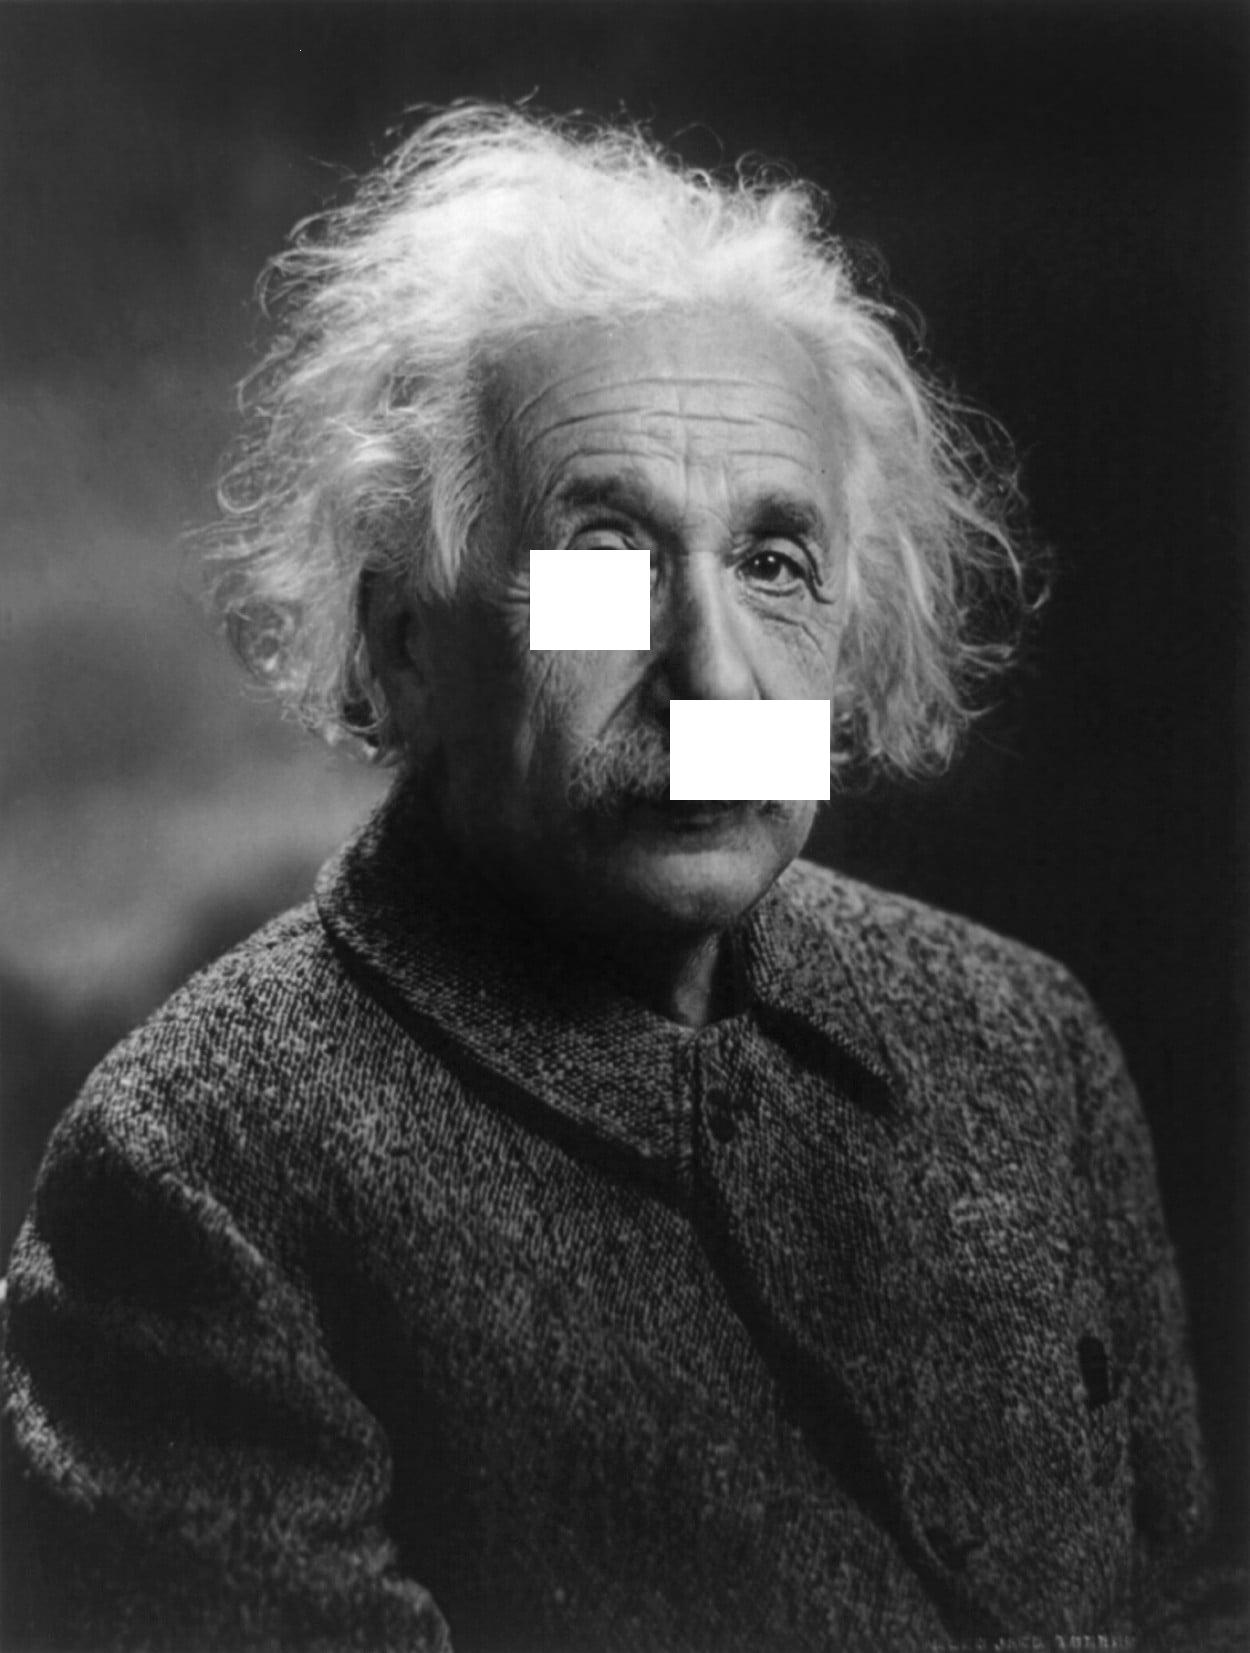
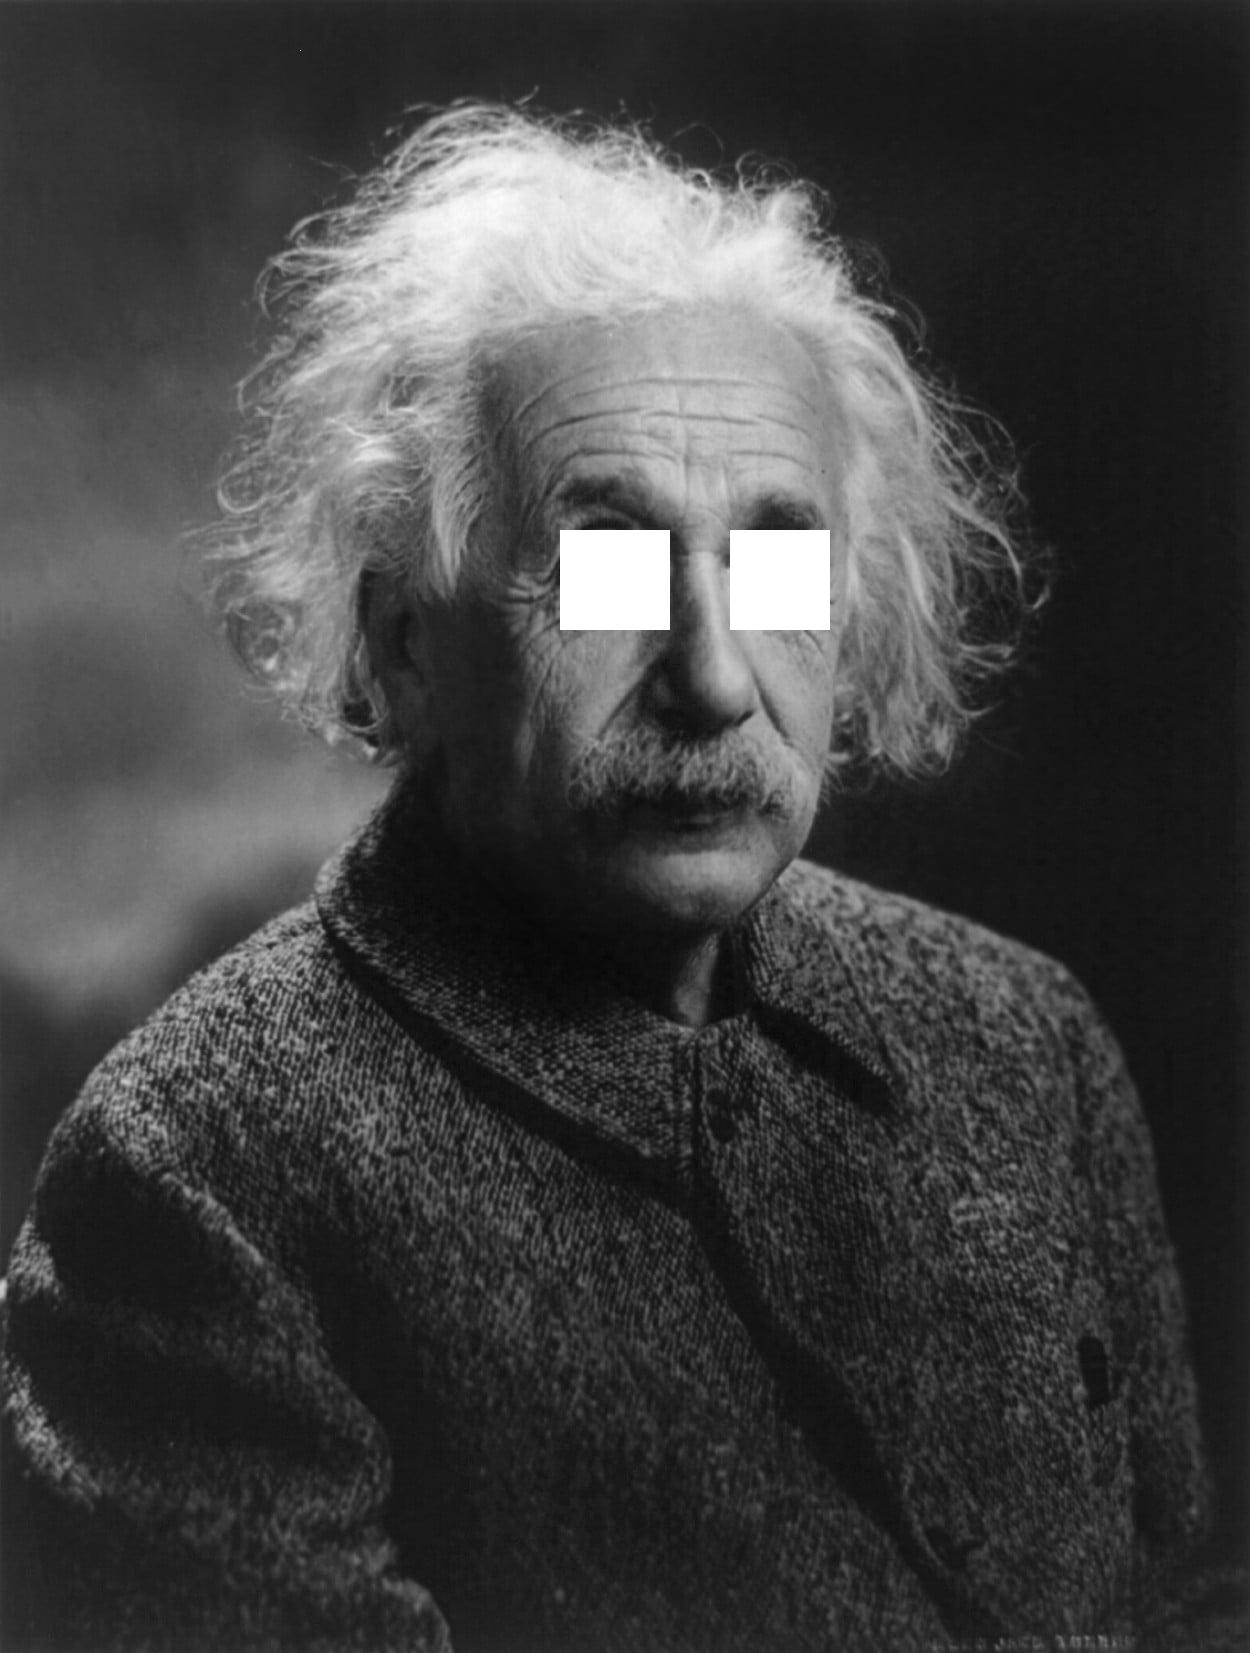
Successfully completed exercise. Exactly what I had been experimenting with unsuccessfully for hours

Changed region(s): [[0.4056, 0.3085, 0.6864, 0.4936]]

diff --git a/mathplotlib_grayscale_manipulation.py b/mathplotlib_grayscale_manipulation.py
@@ -13,9 +13,9 @@ im[50,300] = 255
 print(im[50,300])
 # im[50:100,0:100] = 255
 # im[400:500] = 255
-im[550:650, 530:650] = 255
+im[530:630, 560:670] = 255
 # im[595:650] = 255
-im[700:800, 670:830] = 255
+im[530:630, 730:830] = 255
 
 plt.imshow(im, cmap='gray')
 
